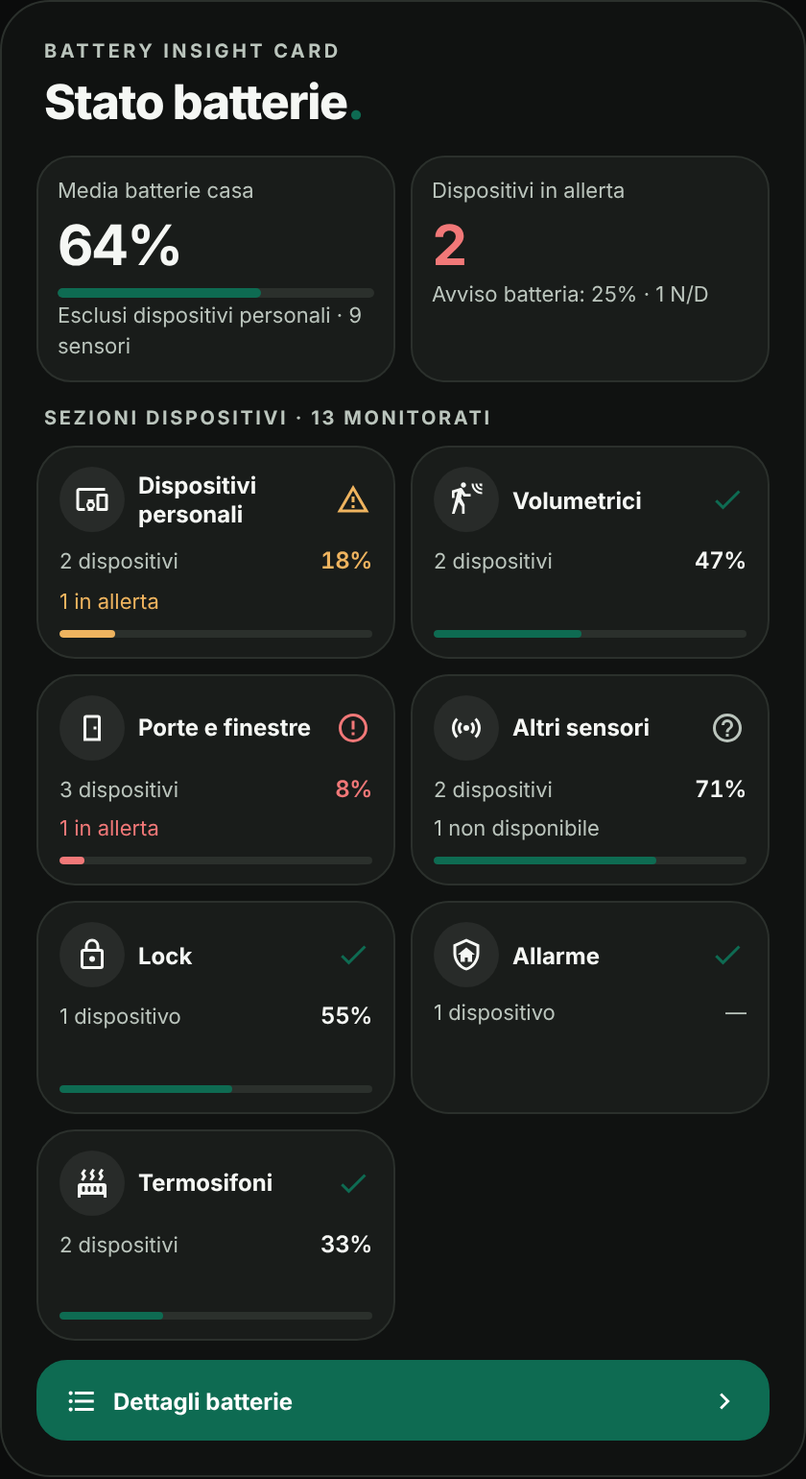
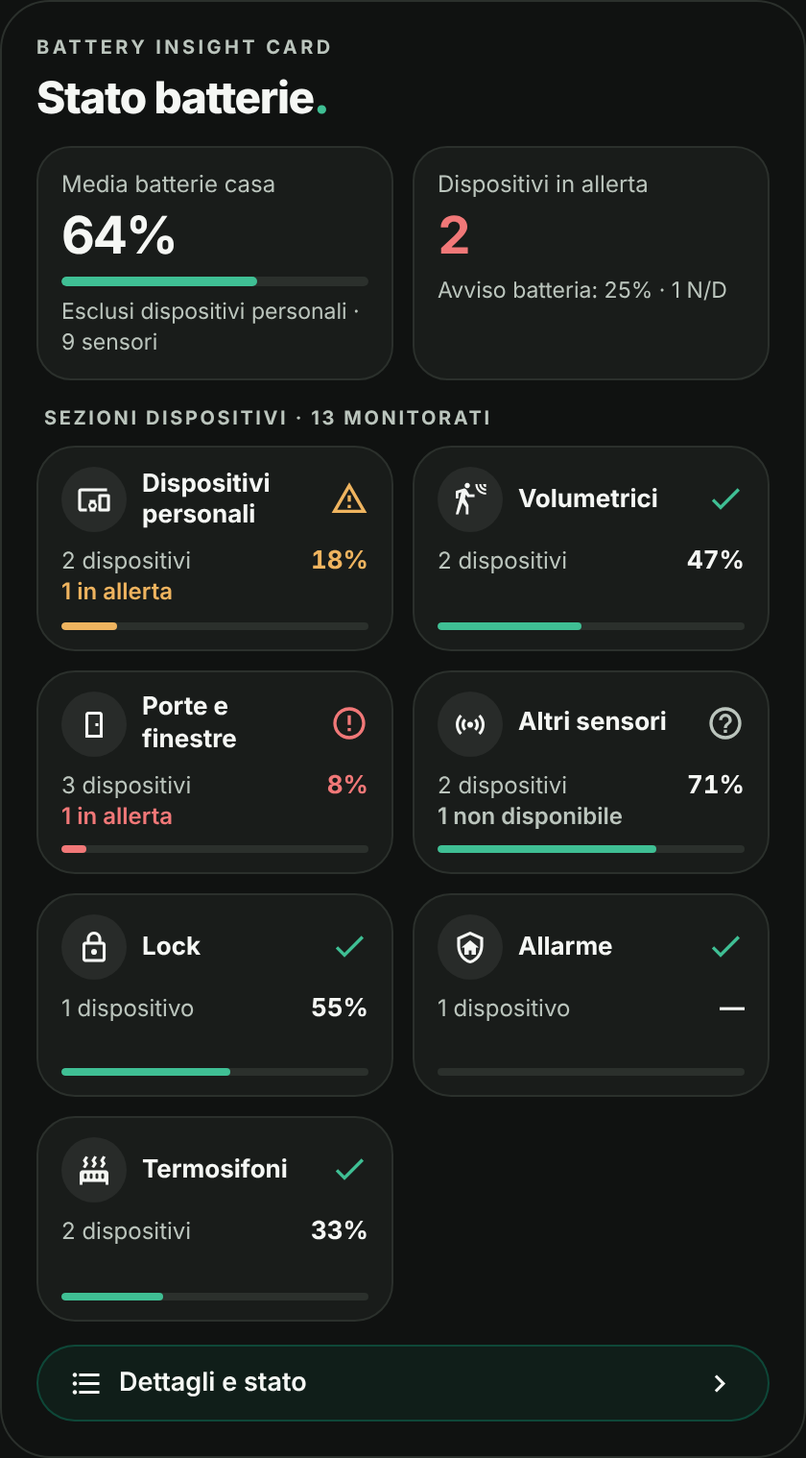
style: compact tiles, standard details pill and Entity Health-style popup
- Tiles: names wrap instead of truncating, alert line under the device count,
  status icon moves next to the symbol below 400px, equal height per row.
- «Dettagli e stato» button restyled as the standard pill.
- Popup: fixed opaque header, 40px close button, summary, filters with counts,
  devices grouped by section, state icons, Escape and focus trap at document level,
  focus restored to the opener.
- Dark theme: brighter status colors for contrast.
- Configuration, thresholds and calculations unchanged.
- Refresh README previews from the real card (fictional demo data).

Claude-Session: https://claude.ai/code/session_013pCEUsLYiWY5L3PfhUW1Hn

diff --git a/dist/battery-insight-card.js b/dist/battery-insight-card.js
@@ -1,5 +1,5 @@
 /*
- * Battery Insight Card 1.1
+ * Battery Insight Card 1.2
  * Copyright (c) 2026 luigi-regolo
  * SPDX-License-Identifier: GPL-3.0-only
  */
@@ -86,93 +86,87 @@
   const CARD_CSS=`
     :host{display:block;min-width:0;font-family:var(--ha-font-family-body,var(--paper-font-body1_-_font-family,Roboto,-apple-system,BlinkMacSystemFont,"Segoe UI",sans-serif));color:var(--bs-text);font-size:14px}
     *,*:before,*:after{box-sizing:border-box}
-    :host([data-theme=light]){--bs-bg:#fafbf9;--bs-tile:#f0f2ef;--bs-circle:#fff;--bs-line:#e0e5df;--bs-text:#18221c;--bs-muted:#56675c;--bs-accent:var(--edera-emerald-color,#0E6B52);--bs-red:#ae4742;--bs-amber:#ad701c}
-    :host([data-theme=dark]){--bs-bg:#101211;--bs-tile:#191c1a;--bs-circle:#282b29;--bs-line:#2b302c;--bs-text:#f5f7f4;--bs-muted:#bbc5bd;--bs-accent:var(--edera-emerald-color,#0E6B52);--bs-red:#f17878;--bs-amber:#efb45f}
+    :host([data-theme=light]){--bs-bg:#fafbf9;--bs-tile:#f0f2ef;--bs-circle:#fff;--bs-line:#e0e5df;--bs-text:#18221c;--bs-muted:#56675c;--bs-accent:var(--edera-emerald-color,#0E6B52);--bs-ok:var(--bs-accent);--bs-btn:var(--bs-accent);--bs-red:#ae4742;--bs-amber:#ad701c}
+    :host([data-theme=dark]){--bs-bg:#101211;--bs-tile:#191c1a;--bs-circle:#282b29;--bs-line:#2b302c;--bs-text:#f5f7f4;--bs-muted:#bbc5bd;--bs-accent:#0e795d;--bs-ok:#3fbf94;--bs-btn:var(--bs-text);--bs-red:#f17878;--bs-amber:#efb45f}
     button{font:inherit;cursor:pointer;color:inherit;-webkit-tap-highlight-color:transparent}
-    button:focus-visible{outline:2px solid var(--bs-accent);outline-offset:3px}
+    button:focus-visible{outline:2px solid var(--bs-accent);outline-offset:2px}
     .bs-icon{height:21px;width:21px;--mdc-icon-size:21px;flex:none;display:inline-flex;align-items:center;justify-content:center}
-    .bs-shell{padding:18px;border:1px solid var(--bs-line);background:var(--bs-bg);border-radius:26px;min-width:0}
-    .bs-header{margin:2px 4px 12px}.bs-eyebrow{font-size:10px;font-weight:750;letter-spacing:1.7px;color:var(--bs-muted);margin-bottom:7px;text-transform:uppercase}
-    .bs-title{font-size:25px;line-height:1.14;font-weight:780;letter-spacing:-.7px;overflow-wrap:anywhere}
-    .bs-title b{color:var(--bs-accent)}
-    .bs-row{border-radius:24px;border:1px solid var(--bs-line);padding:12px;background:var(--bs-tile);margin-top:9px}
-    .bs-metrics{display:grid;grid-template-columns:repeat(2,minmax(0,1fr));gap:8px;margin-top:8px}
-    .bs-metric{background:var(--bs-tile);border:1px solid var(--bs-line);border-radius:18px;padding:10px;min-width:0}
-    .bs-metric-label{font-size:11px;color:var(--bs-muted);line-height:1.4}
-    .bs-metric-value{font-size:29px;line-height:1.15;font-weight:650;letter-spacing:-.7px;margin:4px 0 2px;font-variant-numeric:tabular-nums}
-    .bs-metric-value.low{color:var(--bs-red)}
-    .bs-metric-detail{font-size:11px;color:var(--bs-muted);line-height:1.4}
-    .bs-metric-track{height:5px;background:var(--bs-line);overflow:hidden;border-radius:99px;margin:6px 0 2px}
-    .bs-metric-fill{height:100%;background:var(--bs-accent);border-radius:99px}
-
-    .bs-intro{display:flex;align-items:center;flex-wrap:wrap;gap:11px}.bs-orb{width:43px;height:43px;flex:none;border-radius:50%;background:var(--bs-circle);display:grid;place-items:center}
-    .bs-main{flex:1;min-width:0}.bs-name{font-size:14px;font-weight:650;line-height:1.3}.bs-sub{font-size:12px;color:var(--bs-muted);margin-top:3px;line-height:1.45}
-    .bs-alert{display:flex;align-items:center;gap:6px;margin-left:auto;font-weight:700;font-size:12px;color:var(--bs-amber)}
-    .bs-alert.is-ok{color:var(--bs-accent)}.bs-alert.is-critical{color:var(--bs-red)}
-    .bs-heading{font-size:10px;font-weight:700;letter-spacing:1.3px;color:var(--bs-muted);margin:13px 4px 8px;text-transform:uppercase}
-    .bs-grid{display:grid;grid-template-columns:repeat(2,minmax(0,1fr));grid-auto-rows:1fr;gap:12px}
-    .bs-tile{display:flex;min-width:0;min-height:98px;flex-direction:column;gap:6px;text-align:left;align-items:stretch;padding:9px 10px;border:1px solid var(--bs-line);border-radius:24px;background:var(--bs-tile)}
-    .bs-tilehead{display:flex;align-items:center;gap:9px;min-width:0}.bs-tile .bs-orb{width:41px;height:41px}.bs-tile .bs-icon{height:22px;width:22px;--mdc-icon-size:22px}
-    .bs-tiletext{flex:1;min-width:0}.bs-tile .bs-name{font-size:13px;overflow-wrap:anywhere}.bs-tile .bs-sub{font-size:11.5px;overflow-wrap:anywhere}
-    /* Security Panel geometry, compact visual states as in approved category grid. */
-    .bs-grid{gap:8px}
-    .bs-tile{min-height:100px;padding:10px 11px;border-radius:20px;gap:7px}
-    .bs-tilehead{justify-content:flex-start;min-height:30px;align-items:center;gap:7px}
-    .bs-tile .bs-icon{width:18px;height:18px;--mdc-icon-size:18px}
-    .bs-tile-symbol{display:inline-flex;align-items:center;justify-content:center;width:34px;height:34px;border-radius:50%;background:var(--bs-circle);color:var(--bs-text);flex:none}
-    .bs-tile-state{display:inline-flex;align-items:center;justify-content:center;min-height:22px;min-width:20px;flex:none;margin-left:auto;color:var(--bs-muted)}
-    .bs-tile-state.normal{color:var(--bs-accent)}
-    .bs-tile-state.low{color:var(--bs-amber)}
-    .bs-tile-state.critical{color:var(--bs-red)}
-    .bs-tile-caption{display:flex;flex-direction:column;align-items:flex-start;min-width:0;gap:5px;margin-top:2px;line-height:1.35}
-    .bs-tile .bs-name{display:block;flex:1;min-width:0;font-size:12px;font-weight:650;line-height:1.25;overflow-wrap:anywhere}
-    .bs-tile .bs-sub{display:block;min-width:0;font-size:11px;line-height:1.25;margin:0;color:var(--bs-muted);overflow-wrap:anywhere}
-    .bs-tile .bs-sub.low{color:var(--bs-amber)}
-    .bs-tile .bs-sub.critical{color:var(--bs-red)}
-    .bs-min{font-size:11px;line-height:1.25;color:var(--bs-muted);flex:none;text-align:right;white-space:nowrap}
-    .bs-min strong{font-size:12px;font-weight:600;letter-spacing:-.2px;color:var(--bs-text);font-variant-numeric:tabular-nums}
-    .bs-min.low strong{color:var(--bs-amber)}
-    .bs-min.critical strong{color:var(--bs-red)}
+    .bs-container{display:block;width:100%;max-width:100%;min-width:0;container-type:inline-size;--bs-pad:18px;--bs-gap:10px;--bs-sym:34px}
+    .bs-shell{padding:var(--bs-pad);border:1px solid var(--bs-line);background:var(--bs-bg);border-radius:26px;min-width:0}
+    .bs-eyebrow{font-size:10px;font-weight:750;letter-spacing:1.7px;color:var(--bs-muted);text-transform:uppercase}
+    .bs-title{margin-top:7px;margin-bottom:12px;font-size:25px;line-height:1.14;font-weight:780;letter-spacing:-.7px;overflow-wrap:anywhere}
+    .bs-title b{color:var(--bs-ok)}
+    .bs-metrics{display:grid;grid-template-columns:repeat(2,minmax(0,1fr));gap:var(--bs-gap)}
+    .bs-metric{background:var(--bs-tile);border:1px solid var(--bs-line);border-radius:18px;padding:11px 12px;min-width:0}
+    .bs-metric-label{font-size:12px;color:var(--bs-muted);line-height:1.35}
+    .bs-metric-value{font-size:30px;line-height:1.1;font-weight:700;letter-spacing:-.7px;margin:4px 0 6px;font-variant-numeric:tabular-nums}
+    .bs-metric-value.low{color:var(--bs-amber)}.bs-metric-value.critical{color:var(--bs-red)}
+    .bs-metric-track{height:5px;background:var(--bs-line);overflow:hidden;border-radius:99px;margin:0 0 6px}
+    .bs-metric-fill{height:100%;background:var(--bs-ok);border-radius:99px}
+    .bs-metric-detail{font-size:11.5px;color:var(--bs-muted);line-height:1.35;display:-webkit-box;-webkit-line-clamp:2;-webkit-box-orient:vertical;overflow:hidden}
+    .bs-heading{font-size:10px;font-weight:700;letter-spacing:1.3px;color:var(--bs-muted);margin:14px 4px 8px;text-transform:uppercase}
+    .bs-grid{display:grid;grid-template-columns:repeat(2,minmax(0,1fr));grid-auto-rows:1fr;gap:var(--bs-gap)}
+    .bs-tile{display:flex;flex-direction:column;gap:7px;min-width:0;min-height:88px;text-align:left;align-items:stretch;padding:10px 12px;border:1px solid var(--bs-line);border-radius:20px;background:var(--bs-tile)}
+    .bs-tile:hover{border-color:color-mix(in srgb,var(--bs-accent) 60%,var(--bs-line))}
+    .bs-tilehead{display:flex;align-items:center;gap:8px;min-width:0}
+    .bs-tile-symbol{flex:none;width:var(--bs-sym);height:var(--bs-sym);border-radius:50%;background:var(--bs-circle);display:inline-flex;align-items:center;justify-content:center;color:var(--bs-text)}
+    .bs-tile-symbol .bs-icon{width:18px;height:18px;--mdc-icon-size:18px}
+    .bs-name{flex:1;min-width:0;font-size:13px;font-weight:650;line-height:1.25;display:-webkit-box;-webkit-line-clamp:2;-webkit-box-orient:vertical;overflow:hidden;overflow-wrap:anywhere}
+    .bs-tile-state{flex:none;display:inline-flex;align-items:center;justify-content:center;color:var(--bs-muted)}
+    .bs-tile-state .bs-icon{width:20px;height:20px;--mdc-icon-size:20px}
+    .bs-tile-state.normal{color:var(--bs-ok)}.bs-tile-state.low{color:var(--bs-amber)}.bs-tile-state.critical{color:var(--bs-red)}
+    .bs-tile-data{display:flex;align-items:baseline;justify-content:space-between;gap:6px;min-width:0;font-size:12px;color:var(--bs-muted)}
+    .bs-sub{min-width:0;overflow-wrap:anywhere;line-height:1.35}
+    .bs-sub em{display:block;font-style:normal;font-weight:600}.bs-sub em.low{color:var(--bs-amber)}.bs-sub em.critical{color:var(--bs-red)}
+    .bs-min{flex:none;font-size:13px;font-weight:650;color:var(--bs-text);font-variant-numeric:tabular-nums}
+    .bs-min.low{color:var(--bs-amber)}.bs-min.critical{color:var(--bs-red)}
     .bs-mini-track{height:4px;width:100%;background:var(--bs-line);border-radius:50px;overflow:hidden;margin-top:auto}
-    .bs-mini-fill{height:100%;background:var(--bs-accent);border-radius:50px}
-    .bs-mini-fill.low{background:var(--bs-amber)}
-    .bs-mini-fill.critical{background:var(--bs-red)}
-    .bs-tile-data{display:flex;align-items:baseline;justify-content:space-between;gap:5px;min-width:0}
-    .bs-tile-data .bs-sub{min-width:0;flex:1}
-    .bs-tile-warning{font-size:11px;line-height:1.25;color:var(--bs-muted);overflow-wrap:anywhere}
-    .bs-tile-warning.low{color:var(--bs-amber)}.bs-tile-warning.critical{color:var(--bs-red)}
-    @container (max-width:360px){.bs-tile{padding:8px;min-height:100px}.bs-tile .bs-name{font-size:12px}}
-    .bs-chevron{color:var(--bs-muted)}.bs-pill{margin-top:auto;display:inline-flex;align-items:center;gap:5px;width:fit-content;max-width:100%;min-width:0;padding:5px 9px;font-size:11px;font-weight:650;border-radius:999px;background:var(--bs-circle);color:var(--bs-text)}
-    .bs-pill .bs-icon{height:14px;width:14px;--mdc-icon-size:14px}.bs-pill.low{color:var(--bs-amber)}.bs-pill.critical{color:var(--bs-red)}
-    .bs-details{display:flex;align-items:center;justify-content:space-between;width:100%;min-width:0;gap:12px;min-height:42px;padding:10px 14px;margin-top:10px;border:1px solid var(--bs-accent);border-radius:16px;background:var(--bs-accent);color:#fff;text-align:left;font-weight:650;font-size:12px}.bs-details[aria-expanded="true"],.bs-details:hover{background:var(--bs-accent);color:#fff}.bs-details-label{display:inline-flex;align-items:center;gap:8px;min-width:0}.bs-details-label .bs-icon{display:inline-flex;align-items:center;justify-content:center}
-    .bs-details .bs-icon{width:17px;height:17px;--mdc-icon-size:17px}
+    .bs-mini-fill{height:100%;background:var(--bs-ok);border-radius:50px}
+    .bs-mini-fill.low{background:var(--bs-amber)}.bs-mini-fill.critical{background:var(--bs-red)}
+    /* Pulsante a pillola «Dettagli e stato», stesso stile di Weather Pulse e Entity Health. */
+    .bs-details{display:flex;align-items:center;justify-content:space-between;gap:10px;width:100%;min-width:0;min-height:40px;padding:0 16px;margin-top:12px;border-radius:999px;font-weight:600;font-size:13.5px;text-align:left;color:var(--bs-btn);border:1px solid color-mix(in srgb,var(--bs-accent) 45%,transparent);background:color-mix(in srgb,var(--bs-accent) 12%,transparent)}
+    .bs-details:hover,.bs-details[aria-expanded="true"]{background:color-mix(in srgb,var(--bs-accent) 22%,transparent)}
+    .bs-details-label{display:inline-flex;align-items:center;gap:8px;min-width:0}
+    .bs-details .bs-icon{width:18px;height:18px;--mdc-icon-size:18px}
     .bs-empty{padding:16px;color:var(--bs-muted);font-size:12px;text-align:center}
-    .bs-backdrop{position:fixed;inset:0;z-index:9999;background:#0009;display:grid;place-items:center;overflow:hidden;overscroll-behavior:none;padding:max(24px,env(safe-area-inset-top)) 24px max(24px,env(safe-area-inset-bottom))}
-    .bs-dialog{background:var(--bs-bg);color:var(--bs-text);border:1px solid var(--bs-line);border-radius:26px;display:block;padding:20px;width:min(390px,100%);max-width:100%;min-width:0;max-height:min(82vh,720px);max-height:min(82dvh,720px);box-shadow:0 18px 60px #0005;overflow-y:auto;overflow-x:hidden;overscroll-behavior:contain;-webkit-overflow-scrolling:touch}
-    .bs-dialog-head{display:flex;align-items:center;justify-content:space-between;gap:10px;min-height:38px;margin-bottom:10px;padding:0}
-    .bs-dialog-head strong{display:block;font-size:17px;font-weight:600;line-height:1.3}.bs-dialog-titles{min-width:0;flex:1}.bs-dialog-titles span{display:block;margin-top:4px;font-size:12px;color:var(--bs-muted)}.bs-close{display:flex;align-items:center;justify-content:center;border:0;border-radius:50%;background:var(--bs-tile);width:36px;height:36px;flex:none;line-height:0;padding:0}.bs-close .bs-icon{display:block;width:18px;height:18px;--mdc-icon-size:18px;flex:none}
-    .bs-dialog-body{padding:0;overflow:visible;min-height:0}
-    .bs-stats{display:flex;flex-wrap:wrap;gap:9px;margin:0 0 18px}.bs-stat{border:1px solid var(--bs-line);border-radius:17px;padding:10px 13px;background:var(--bs-tile);font-size:12px;white-space:nowrap}
-    .bs-stat b{font-size:14px;font-weight:650;font-variant-numeric:tabular-nums}.bs-filters{display:flex;gap:8px;flex-wrap:wrap;margin-bottom:21px}.bs-popup-heading{font-size:13px;font-weight:650;line-height:1.4;margin:7px 0 12px}
-    .bs-filter{border:1px solid var(--bs-line);border-radius:999px;padding:10px 15px;min-height:39px;background:var(--bs-tile);font-size:12px;line-height:1.2}.bs-filter.selected{background:var(--bs-accent);color:#fff;border-color:var(--bs-accent)}.bs-filter:focus-visible{outline:2px solid var(--bs-accent);outline-offset:2px}
-    .bs-entry{padding:13px 14px;background:var(--bs-tile);border:1px solid var(--bs-line);border-radius:17px;margin-bottom:9px}.bs-entry:last-child{margin-bottom:0}
-    .bs-entrytop{display:flex;align-items:center;justify-content:space-between;gap:12px}.bs-entryidentity{display:flex;align-items:center;gap:9px;min-width:0;flex:1}.bs-entryidentity .bs-icon{width:21px;height:21px;--mdc-icon-size:21px}.bs-entryname{font-size:13px;line-height:1.35;font-weight:650;min-width:0;overflow-wrap:anywhere}.bs-entry-status{margin:6px 0 0 30px;color:var(--bs-muted);font-size:11px}.bs-entry-status.low{color:var(--bs-amber)}.bs-entry-status.critical{color:var(--bs-red)}
-    .bs-pct{font-weight:650;letter-spacing:-.2px;font-variant-numeric:tabular-nums;white-space:nowrap;font-size:13px}.bs-pct.low{color:var(--bs-amber)}.bs-pct.critical{color:var(--bs-red)}.bs-pct.unavailable{color:var(--bs-muted)}
-    .bs-track{background:var(--bs-line);height:6px;border-radius:999px;overflow:hidden;margin-top:9px}.bs-fill{height:100%;background:var(--bs-accent);border-radius:999px}.bs-fill.low{background:var(--bs-amber)}.bs-fill.critical{background:var(--bs-red)}
-    .bs-entityid{font-size:10px;color:var(--bs-muted);margin-top:3px;overflow-wrap:anywhere}
-    @container (max-width:390px){.bs-grid{grid-template-columns:repeat(2,minmax(0,1fr));gap:8px}.bs-tile{min-height:100px;padding:9px;gap:6px}.bs-tile-symbol{width:30px;height:30px}.bs-tile .bs-icon{width:18px;height:18px;--mdc-icon-size:18px}.bs-tile .bs-name{font-size:12px;line-height:1.25}.bs-tile .bs-sub{font-size:11px;line-height:1.25}.bs-tile .bs-min strong{font-size:12px}}
-    @container (max-width:360px){.bs-shell{padding:13px}.bs-title{font-size:23px}.bs-metric-value{font-size:25px}.bs-tile{padding:8px}}
-    .bs-container{display:block;width:100%;max-width:100%;min-width:0;container-type:inline-size}
-    @media(max-width:440px){.bs-shell{padding:13px}}
-    @media(max-width:599px){.bs-backdrop{padding:max(20px,env(safe-area-inset-top)) 18px max(20px,env(safe-area-inset-bottom))}.bs-dialog{width:min(350px,100%);max-height:min(68vh,560px);max-height:min(68dvh,560px);border-radius:24px;padding:18px}}
-    @media(max-height:480px){.bs-dialog{max-height:calc(100vh - 32px);max-height:calc(100dvh - 32px)}}
+    @container (max-width:560px){.bs-container{--bs-pad:14px}.bs-title{font-size:23px}.bs-metric-value{font-size:27px}}
+    @container (max-width:400px){.bs-container{--bs-pad:12px;--bs-gap:8px;--bs-sym:32px}.bs-shell{border-radius:23px}.bs-tile{padding:9px 10px}.bs-tilehead{flex-wrap:wrap;row-gap:6px}.bs-tile-symbol{order:1}.bs-tile-state{order:2;margin-left:auto}.bs-name{order:3;flex:1 1 100%;font-size:12.5px}.bs-tile-data{font-size:11.5px}.bs-metric-label,.bs-metric-detail{font-size:11.5px}.bs-metric-value{font-size:25px}}
+    @container (max-width:270px){.bs-grid,.bs-metrics{grid-template-columns:1fr}}
+    /* Popup: modello Entity Health Card (intestazione fissa e opaca, solo l'elenco scorre). */
+    .bs-backdrop{position:fixed;inset:0;z-index:9999;background:#0009;display:flex;align-items:center;justify-content:center;overscroll-behavior:contain;padding:max(16px,env(safe-area-inset-top)) max(16px,env(safe-area-inset-right)) max(16px,env(safe-area-inset-bottom)) max(16px,env(safe-area-inset-left))}
+    .bs-modal{width:min(390px,100%);max-height:min(88vh,680px);max-height:min(88dvh,680px);display:flex;flex-direction:column;background:var(--bs-bg);color:var(--bs-text);border:1px solid var(--bs-line);border-radius:26px;overflow:hidden;box-shadow:0 18px 60px #0005}
+    .bs-mhead{flex:none;display:flex;align-items:center;justify-content:space-between;gap:12px;padding:16px 16px 12px 18px;background:var(--bs-bg);border-bottom:1px solid var(--bs-line)}
+    .bs-mtitles{flex:1;min-width:0}.bs-mtitle{margin:0;font-size:17px;font-weight:600;line-height:1.3;overflow-wrap:anywhere}.bs-msub{font-size:12px;color:var(--bs-muted);margin-top:2px;overflow-wrap:anywhere}
+    .bs-close{flex:none;display:grid;place-items:center;width:40px;height:40px;padding:0;border-radius:50%;border:1px solid var(--bs-line);background:var(--bs-tile);color:var(--bs-text);line-height:0}
+    .bs-close .bs-icon{width:20px;height:20px;--mdc-icon-size:20px}
+    .bs-mbody{overflow-y:auto;overflow-x:hidden;overscroll-behavior:contain;-webkit-overflow-scrolling:touch;padding:12px 18px 18px;min-width:0}
+    .bs-stats{display:grid;grid-template-columns:repeat(3,minmax(0,1fr));gap:8px;margin-bottom:12px}
+    .bs-stat{background:var(--bs-tile);border-radius:16px;padding:10px 12px;min-width:0}
+    .bs-stat b{display:block;font-size:22px;font-weight:700;line-height:1.1;font-variant-numeric:tabular-nums}.bs-stat.low b{color:var(--bs-amber)}
+    .bs-stat span{display:block;font-size:11.5px;color:var(--bs-muted);margin-top:4px;white-space:nowrap;overflow:hidden;text-overflow:ellipsis}
+    .bs-filters{display:flex;flex-wrap:wrap;gap:6px;margin-bottom:12px}
+    .bs-filter{font-size:12.5px;padding:6px 11px;min-height:32px;border-radius:999px;border:1px solid var(--bs-line);background:var(--bs-tile);color:var(--bs-text)}
+    .bs-filter[aria-pressed="true"]{background:color-mix(in srgb,var(--bs-accent) 14%,transparent);border-color:var(--bs-accent);font-weight:600}
+    .bs-gh{display:flex;justify-content:space-between;font-size:11px;letter-spacing:.1em;text-transform:uppercase;color:var(--bs-muted);font-weight:600;margin:14px 2px 6px}.bs-gh:first-of-type{margin-top:4px}
+    .bs-list{display:grid;gap:8px}
+    .bs-entry{display:grid;grid-template-columns:36px minmax(0,1fr) auto;gap:10px;align-items:center;background:var(--bs-tile);border-radius:16px;padding:10px 12px;min-width:0}
+    .bs-eico{width:36px;height:36px;border-radius:50%;display:grid;place-items:center;background:var(--bs-circle);color:var(--bs-muted)}
+    .bs-eico .bs-icon{width:19px;height:19px;--mdc-icon-size:19px}
+    .bs-eico.normal{color:var(--bs-ok)}.bs-eico.low{color:var(--bs-amber);box-shadow:inset 0 0 0 1px color-mix(in srgb,var(--bs-amber) 50%,transparent)}.bs-eico.critical{color:var(--bs-red);box-shadow:inset 0 0 0 1px color-mix(in srgb,var(--bs-red) 50%,transparent)}
+    .bs-einfo{min-width:0}.bs-entryname{display:block;font-size:14px;font-weight:600;overflow:hidden;text-overflow:ellipsis;white-space:nowrap}
+    .bs-entry-status{display:block;font-size:11.5px;color:var(--bs-muted);margin-top:1px}.bs-entry-status.low{color:var(--bs-amber)}.bs-entry-status.critical{color:var(--bs-red)}
+    .bs-pct{font-size:13px;font-weight:650;font-variant-numeric:tabular-nums;white-space:nowrap}.bs-pct.low{color:var(--bs-amber)}.bs-pct.critical{color:var(--bs-red)}.bs-pct.unavailable{color:var(--bs-muted)}
+    .bs-track{grid-column:2/-1;height:5px;background:var(--bs-line);border-radius:999px;overflow:hidden;margin-top:-2px}
+    .bs-fill{height:100%;background:var(--bs-ok);border-radius:999px}.bs-fill.low{background:var(--bs-amber)}.bs-fill.critical{background:var(--bs-red)}
+    .bs-msg{background:var(--bs-tile);border-radius:16px;padding:14px;font-size:13px;color:var(--bs-muted);text-align:center}
+    .bs-note{margin:16px 0 0;font-size:12px;color:var(--bs-muted);line-height:1.5}
     @media(prefers-reduced-motion:reduce){*,*:before,*:after{scroll-behavior:auto!important;animation:none!important;transition:none!important}}
   `;
   class BatteryInsightCard extends HTMLElement {
     static getStubConfig(){const {type,...config}=normalize({});return config;}
     static getConfigElement(){return document.createElement(EDITOR);}
     constructor(){
-      super();this.attachShadow({mode:'open'});this._cfg=normalize({});this._hass=null;this._dialog=null;this._filter='all';this._signature='';this._returnFocus=null;
+      super();this.attachShadow({mode:'open'});this._cfg=normalize({});this._hass=null;this._dialog=null;this._filter='all';this._signature='';this._returnFocus=null;this._pendingFocus='';
       this._media=typeof matchMedia==='function'?matchMedia('(prefers-color-scheme: dark)'):null;
       this._appearance=()=>this._render();this._media?.addEventListener?.('change',this._appearance);
       // Temporarily intercept scroll gestures while this popup is visible.
@@ -189,11 +183,27 @@
         this._preventScrollLeak(e,deltaY,Math.abs(deltaX)>Math.abs(deltaY));
       };
       this._onModalWheel=e=>this._preventScrollLeak(e,e.deltaY);
+      // Escape and Tab are handled at document level while the popup is open, so they keep working after a click on a non-focusable area.
+      this._keysActive=false;this._onKey=e=>this._key(e);
       this.shadowRoot.addEventListener('click',e=>this._click(e));
-      this.shadowRoot.addEventListener('keydown',e=>{if(e.key==='Escape'&&this._dialog)this._close();});
     }
     connectedCallback(){this._render();}
-    disconnectedCallback(){this._setModalScrollLock(false);this._media?.removeEventListener?.('change',this._appearance);}
+    disconnectedCallback(){this._setModalScrollLock(false);this._setKeys(false);this._media?.removeEventListener?.('change',this._appearance);}
+    _setKeys(enabled){
+      if(this._keysActive===enabled)return;
+      this._keysActive=enabled;
+      if(enabled)document.addEventListener('keydown',this._onKey);else document.removeEventListener('keydown',this._onKey);
+    }
+    _key(e){
+      if(!this._dialog)return;
+      if(e.key==='Escape'){e.preventDefault();this._close();return;}
+      if(e.key!=='Tab')return;
+      const nodes=[...this.shadowRoot.querySelectorAll('.bs-modal button')];
+      if(!nodes.length)return;
+      const first=nodes[0],last=nodes[nodes.length-1],active=this.shadowRoot.activeElement;
+      if(e.shiftKey&&(active===first||!nodes.includes(active))){e.preventDefault();last.focus({preventScroll:true});}
+      else if(!e.shiftKey&&(active===last||!nodes.includes(active))){e.preventDefault();first.focus({preventScroll:true});}
+    }
     _setModalScrollLock(enabled){
       if(this._modalLockActive===enabled)return;
       this._modalLockActive=enabled;
@@ -209,13 +219,14 @@
     }
     _preventScrollLeak(event,deltaY,horizontal=false){
       if(!this._dialog||!event.cancelable)return;
-      const dialog=this.shadowRoot.querySelector('.bs-dialog');
-      if(!dialog||!event.composedPath().includes(dialog)){
+      const body=this.shadowRoot.querySelector('.bs-mbody');
+      // Only the device list may scroll: the header, the backdrop and the dashboard behind stay still.
+      if(!body||!event.composedPath().includes(body)){
         event.preventDefault();return;
       }
-      const maxScroll=Math.max(0,dialog.scrollHeight-dialog.clientHeight);
+      const maxScroll=Math.max(0,body.scrollHeight-body.clientHeight);
       // Keep the popup scrollable but stop Safari from chaining overscroll to the dashboard.
-      if(horizontal||maxScroll<=1||(deltaY<0&&dialog.scrollTop<=1)||(deltaY>0&&dialog.scrollTop>=maxScroll-1)){
+      if(horizontal||maxScroll<=1||(deltaY<0&&body.scrollTop<=1)||(deltaY>0&&body.scrollTop>=maxScroll-1)){
         event.preventDefault();
       }
     }
@@ -224,32 +235,38 @@
     getCardSize(){return Math.max(3,Math.ceil(this._cfg.sections.filter(s=>s.visible&&(!this._cfg.hide_empty||s.entities.length)).length/2)+2);}
     _theme(){if(this._cfg.theme_mode!=='auto')return this._cfg.theme_mode;if(typeof this._hass?.themes?.darkMode==='boolean')return this._hass.themes.darkMode?'dark':'light';return this._media?.matches?'dark':'light';}
     _sections(){return this._cfg.sections.filter(s=>s.visible).map(s=>({...s,items:s.entities.map(id=>battery(this._hass,id))}));}
-    _close(){const prior=this._returnFocus;this._dialog=null;this._filter='all';this._signature='';this._render();
+    _close(){const prior=this._returnFocus;this._dialog=null;this._filter='all';this._signature='';this._setKeys(false);this._render();
       const current=prior?.kind==='category'?[...this.shadowRoot.querySelectorAll('[data-category]')].find(x=>x.dataset.category===prior.id):this.shadowRoot.querySelector('[data-details]');
-      current?.focus?.();this._returnFocus=null;}
+      current?.focus?.({preventScroll:true});this._returnFocus=null;}
+    _open(dialog,returnFocus){this._returnFocus=returnFocus;this._dialog=dialog;this._filter='all';this._signature='';this._setKeys(true);this._render();this.shadowRoot.querySelector('[data-close]')?.focus({preventScroll:true});}
     _click(e){
       if(e.target.closest('[data-close]')||e.target.closest('[data-backdrop]')===e.target){this._close();return;}
-      const cat=e.target.closest('[data-category]');if(cat){this._returnFocus={kind:'category',id:cat.dataset.category};this._dialog=cat.dataset.category;this._filter='all';this._signature='';this._render();this.shadowRoot.querySelector('[data-close]')?.focus();return;}
-      const filter=e.target.closest('[data-filter]');if(filter){this._filter=filter.dataset.filter;this._signature='';this._render();return;}
-      const details=e.target.closest('[data-details]');if(details){this._returnFocus={kind:'details'};this._dialog='__all__';this._filter='all';this._signature='';this._render();this.shadowRoot.querySelector('[data-close]')?.focus();}
+      const cat=e.target.closest('[data-category]');if(cat){this._open(cat.dataset.category,{kind:'category',id:cat.dataset.category});return;}
+      const filter=e.target.closest('[data-filter]');if(filter){this._filter=filter.dataset.filter;this._signature='';this._pendingFocus=`[data-filter="${filter.dataset.filter}"]`;this._render();return;}
+      const details=e.target.closest('[data-details]');if(details){this._open('__all__',{kind:'details'});}
+    }
+    _entryHTML(b){
+      const status=classify(b,this._cfg);
+      const txt=b.kind==='percentage'?`${Number(b.value.toFixed(1))}%`:b.kind==='low'?'Bassa':b.kind==='normal'?'OK':'N/D';
+      const detail=status==='critical'?'Batteria critica':status==='low'?'Batteria scarica':status==='normal'?'Batteria regolare':'Stato non disponibile';
+      const ico=status==='critical'?'mdi:battery-alert':status==='low'?'mdi:battery-low':status==='normal'?'mdi:battery':'mdi:battery-unknown';
+      return `<div class="bs-entry"><span class="bs-eico ${status}">${icon(ico)}</span><span class="bs-einfo"><span class="bs-entryname">${esc(b.name)}</span><span class="bs-entry-status ${status}">${esc(detail)}</span></span><span class="bs-pct ${status}">${esc(txt)}</span>${b.value!==null?`<div class="bs-track"><div class="bs-fill ${status}" style="width:${b.value}%"></div></div>`:''}</div>`;
     }
     _popup(sections){
       const selected=this._dialog==='__all__'?sections:sections.filter(s=>s.id===this._dialog);
       if(!selected.length)return '';
-      const items=selected.flatMap(s=>s.items),stats=summary(items,this._cfg),title='Dettagli batterie',subtitle=this._dialog==='__all__'?'Tutti i dispositivi':selected[0].name;
-      const entries=sortItems(items,this._cfg).filter(b=>this._filter==='all'||this._filter==='unavailable'&&classify(b,this._cfg)==='unavailable'||this._filter==='low'&&['low','critical'].includes(classify(b,this._cfg)));
-      const filters=[['all','Tutti'],['low','In allerta'],['unavailable','Non disponibili']];
-      return `<div class="bs-backdrop" data-backdrop="1"><div class="bs-dialog" role="dialog" aria-modal="true" aria-label="${esc(title)}">
-        <div class="bs-dialog-head"><div class="bs-dialog-titles"><strong>${esc(title)}</strong><span>${esc(subtitle)}</span></div><button class="bs-close" type="button" data-close="1" aria-label="Chiudi">${icon('mdi:close')}</button></div>
-        <div class="bs-dialog-body"><div class="bs-popup-heading">Riepilogo dispositivi</div><div class="bs-stats"><div class="bs-stat"><b>${stats.total}</b> monitorati</div><div class="bs-stat"><b>${stats.low}</b> in allerta</div><div class="bs-stat"><b>${stats.unavailable}</b> non disponibili</div></div>
-        <div class="bs-popup-heading">Filtra dispositivi</div><div class="bs-filters">${filters.map(([key,label])=>`<button type="button" class="bs-filter ${this._filter===key?'selected':''}" data-filter="${key}" aria-pressed="${this._filter===key}">${label}</button>`).join('')}</div><div class="bs-popup-heading">Dispositivi</div>
-        ${entries.length?entries.map(b=>{
-          const status=classify(b,this._cfg);const txt=b.kind==='percentage'?`${Number(b.value.toFixed(1))}%`:b.kind==='low'?'Bassa':b.kind==='normal'?'OK':'N/D';
-          const detail=status==='critical'?'Batteria critica':status==='low'?'Batteria scarica':status==='normal'?'Batteria regolare':'Stato non disponibile';
-          return `<div class="bs-entry"><div class="bs-entrytop"><div class="bs-entryidentity">${icon('mdi:battery')}<span class="bs-entryname">${esc(b.name)}</span></div><span class="bs-pct ${status}">${esc(txt)}</span></div><div class="bs-entry-status ${status}">${esc(detail)}</div>
-            ${b.value!==null?`<div class="bs-track"><div class="bs-fill ${status}" style="width:${b.value}%"></div></div>`:''}
-            </div>`;
-        }).join(''):'<div class="bs-empty">Nessun dispositivo per questo filtro</div>'}</div></div></div>`;
+      const all=this._dialog==='__all__';
+      const items=selected.flatMap(s=>s.items),stats=summary(items,this._cfg),title='Dettagli batterie',subtitle=all?'Tutti i dispositivi':selected[0].name;
+      const keep=b=>this._filter==='all'||this._filter==='unavailable'&&classify(b,this._cfg)==='unavailable'||this._filter==='low'&&['low','critical'].includes(classify(b,this._cfg));
+      const filters=[['all','Tutti',stats.total],['low','In allerta',stats.low],['unavailable','Non disponibili',stats.unavailable]];
+      const groups=selected.map(s=>({s,rows:sortItems(s.items,this._cfg).filter(keep)})).filter(g=>g.rows.length);
+      const list=groups.length?groups.map(g=>`${all?`<div class="bs-gh"><span>${esc(g.s.name)}</span><span>${g.rows.length}</span></div>`:''}<div class="bs-list">${g.rows.map(b=>this._entryHTML(b)).join('')}</div>`).join(''):'<div class="bs-msg">Nessun dispositivo per questo filtro</div>';
+      return `<div class="bs-backdrop" data-backdrop="1"><div class="bs-modal" role="dialog" aria-modal="true" aria-labelledby="bs-mt">
+        <div class="bs-mhead"><div class="bs-mtitles"><h2 class="bs-mtitle" id="bs-mt">${esc(title)}</h2><div class="bs-msub">${esc(subtitle)}</div></div><button class="bs-close" type="button" data-close="1" aria-label="Chiudi">${icon('mdi:close')}</button></div>
+        <div class="bs-mbody"><div class="bs-stats"><div class="bs-stat"><b>${stats.total}</b><span>monitorati</span></div><div class="bs-stat low"><b>${stats.low}</b><span>in allerta</span></div><div class="bs-stat"><b>${stats.unavailable}</b><span>non disp.</span></div></div>
+        <div class="bs-filters">${filters.map(([key,label,n])=>`<button type="button" class="bs-filter" data-filter="${key}" aria-pressed="${this._filter===key}">${label} (${n})</button>`).join('')}</div>
+        ${list}
+        <p class="bs-note">«N/D» indica che Home Assistant non riesce a leggere il valore dell’entità: non implica che la batteria sia scarica.</p></div></div></div>`;
     }
     _render(){
       if(!this.isConnected)return;
@@ -257,7 +274,7 @@
       const all=sections.flatMap(s=>s.items),stats=summary(all,this._cfg);
       const sig=JSON.stringify({cfg:this._cfg,theme:this._theme(),dialog:this._dialog,filter:this._filter,items:all.map(x=>[x.id,x.name,x.kind,x.value])});
       if(sig===this._signature)return;this._signature=sig;
-      const previousScroll=this.shadowRoot.querySelector('.bs-dialog')?.scrollTop??0;
+      const previousScroll=this.shadowRoot.querySelector('.bs-mbody')?.scrollTop??0;
       this.setAttribute('data-theme',this._theme());
       // "Dispositivi personali" is deliberately excluded from the overall average.
       // It remains visible and still contributes to the alert count.
@@ -265,11 +282,12 @@
       const percentages=sections.filter(s=>s.id!=='smartphone').flatMap(s=>s.items)
         .filter(b=>b.kind==='percentage').map(b=>b.value);
       const mean=percentages.length ? Math.round(percentages.reduce((sum,value)=>sum+value,0)/percentages.length) : null;
+      const alertClass=stats.critical?'critical':stats.low?'low':'';
       this.shadowRoot.innerHTML=`<style>${CARD_CSS}</style><div class="bs-container"><div class="bs-shell">
         <header class="bs-header"><div class="bs-eyebrow">${esc(this._cfg.eyebrow)}</div><div class="bs-title">${esc(this._cfg.title)}<b>.</b></div></header>
         <section class="bs-metrics" aria-label="Riepilogo batterie">
           <div class="bs-metric"><div class="bs-metric-label">Media batterie casa</div><div class="bs-metric-value">${mean===null?'—':mean+'%'}</div><div class="bs-metric-track"><div class="bs-metric-fill" style="width:${mean??0}%"></div></div><div class="bs-metric-detail">Esclusi dispositivi personali · ${percentages.length} sensori</div></div>
-          <div class="bs-metric"><div class="bs-metric-label">Dispositivi in allerta</div><div class="bs-metric-value ${stats.low?'low':''}">${stats.low}</div><div class="bs-metric-detail">Avviso batteria: ${this._cfg.low_threshold}%${this._cfg.show_unavailable&&stats.unavailable?` · ${stats.unavailable} N/D`:''}</div></div>
+          <div class="bs-metric"><div class="bs-metric-label">Dispositivi in allerta</div><div class="bs-metric-value ${alertClass}">${stats.low}</div><div class="bs-metric-detail">Avviso batteria: ${this._cfg.low_threshold}%${this._cfg.show_unavailable&&stats.unavailable?` · ${stats.unavailable} N/D`:''}</div></div>
         </section>
         <div class="bs-heading">Sezioni dispositivi · ${stats.total} monitorati</div>
         ${shown.length?`<div class="bs-grid">${shown.map(s=>{
@@ -283,17 +301,18 @@
           const alertText=st.low?`${st.low} in allerta`:st.unavailable?`${st.unavailable} non disponibil${st.unavailable===1?'e':'i'}`:'';
           const short=`${countText}${alertText?' · '+alertText:''}`;
           const statusName=level==='normal'?'Batterie regolari':level==='low'?'Batterie in allerta':level==='critical'?'Batterie critiche':level==='unavailable'?'Stati non disponibili':'Nessun dispositivo';
-          return `<button class="bs-tile" type="button" data-category="${esc(s.id)}" aria-label="${esc(s.name)}: ${esc(short)}. ${minimum===null?'Percentuale minima non disponibile':'Batteria minima '+Number(minimum.toFixed(1))+'%'}. ${esc(statusName)}. Apri dettagli.">
+          const minText=minimum===null?'Percentuale minima non disponibile':'Batteria minima: '+Number(minimum.toFixed(1))+'%';
+          return `<button class="bs-tile" type="button" data-category="${esc(s.id)}" aria-label="${esc(s.name)}: ${esc(short)}. ${esc(minText)}. ${esc(statusName)}. Apri dettagli.">
             <div class="bs-tilehead"><span class="bs-tile-symbol">${icon(s.icon)}</span><span class="bs-name">${esc(s.name)}</span><span class="bs-tile-state ${level}" title="${esc(statusName)}">${icon(stateIcon)}</span></div>
-            <div class="bs-tile-data"><span class="bs-sub">${esc(countText)}</span><span class="bs-min ${minState}" title="${minimum===null?'Percentuale minima non disponibile':'Batteria minima: '+Number(minimum.toFixed(1))+'%'}">${minimum===null?'—':`<strong>${Number(minimum.toFixed(1))}%</strong>`}</span></div>
-            ${alertText?`<span class="bs-tile-warning ${st.critical?'critical':st.low?'low':''}">${esc(alertText)}</span>`:''}
-            ${minimum!==null?`<div class="bs-mini-track"><div class="bs-mini-fill ${minState}" style="width:${minimum}%"></div></div>`:''}
+            <div class="bs-tile-data"><span class="bs-sub">${esc(countText)}${alertText?`<em class="${st.critical?'critical':st.low?'low':''}">${esc(alertText)}</em>`:''}</span><span class="bs-min ${minState}" title="${esc(minText)}">${minimum===null?'—':Number(minimum.toFixed(1))+'%'}</span></div>
+            <div class="bs-mini-track">${minimum!==null?`<div class="bs-mini-fill ${minState}" style="width:${minimum}%"></div>`:''}</div>
             </button>`;
         }).join('')}</div>`:'<div class="bs-empty">Nessuna sezione visibile: usa l’editor della card per aggiungerla.</div>'}
-        <button class="bs-details" type="button" data-details="1" aria-haspopup="dialog" aria-expanded="${this._dialog==='__all__'}"><span class="bs-details-label">${icon('mdi:format-list-bulleted')} Dettagli batterie</span>${icon('mdi:chevron-right')}</button>
+        <button class="bs-details" type="button" data-details="1" aria-haspopup="dialog" aria-expanded="${this._dialog==='__all__'}"><span class="bs-details-label">${icon('mdi:format-list-bulleted')} Dettagli e stato</span>${icon('mdi:chevron-right')}</button>
       </div></div>${this._dialog?this._popup(sections):''}`;
-      const dialog=this.shadowRoot.querySelector('.bs-dialog');if(dialog)dialog.scrollTop=previousScroll;
-      this._setModalScrollLock(Boolean(dialog));
+      const body=this.shadowRoot.querySelector('.bs-mbody');if(body)body.scrollTop=previousScroll;
+      this._setModalScrollLock(Boolean(body));
+      if(this._pendingFocus){this.shadowRoot.querySelector(this._pendingFocus)?.focus({preventScroll:true});this._pendingFocus='';}
     }
   }
   const EDIT_CSS=`
